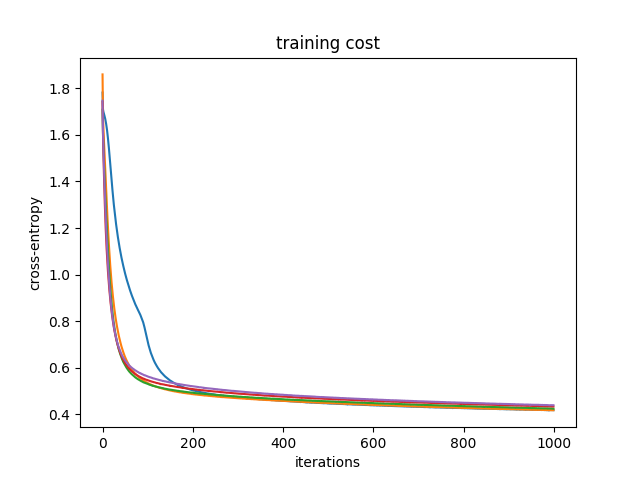
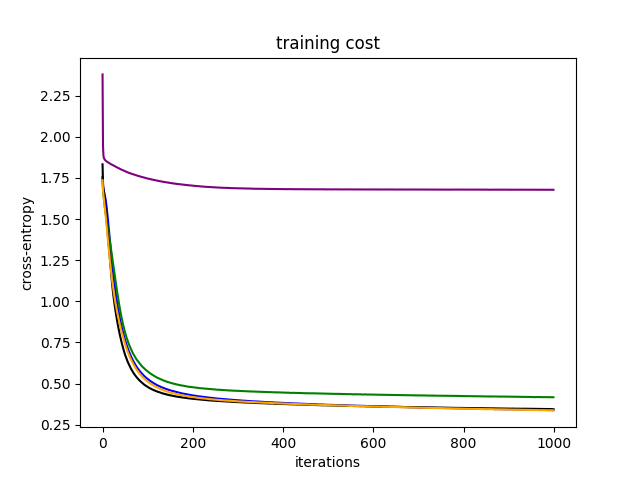
commit last changes for the day

diff --git a/Proj1/Project_1a/question_4.py b/Proj1/Project_1a/question_4.py
@@ -3,6 +3,7 @@ import theano
 import theano.tensor as T
 import matplotlib.pyplot as plt
 import time
+import math
 
 def init_bias(n = 1):
     return(theano.shared(np.zeros(n), theano.config.floatX))
@@ -38,20 +39,21 @@ def shuffle_data (samples, labels):
     samples, labels = samples[idx], labels[idx]
     return samples, labels
 
-colors = {4:"blue", 8:"purple", 16:"green", 32:"black", 64:"orange"}
-decay = 1e-6
+
+#decay = 1e-6
 learning_rate = 0.01
 epochs = 1000
 
+colors = {0:"blue", 1e-3:"purple", 1e-6:"green", 1e-9:"black", 1e-12:"orange"}
 #Was 32
 #batch_size = 32
 
 batch_size = 16
+neurons = 5
 
-hidden_layer_options = [5, 10, 15, 20, 25]
+possible_decay_parameters = [0, math.pow(10, -3), math.pow(10, -6), math.pow(10, -9), math.pow(10, -12)]
 
-
-for neurons in hidden_layer_options:
+for decay in possible_decay_parameters:
 
 
     # theano expressions
@@ -147,11 +149,11 @@ for neurons in hidden_layer_options:
         test_accuracy = np.append(test_accuracy, np.mean(np.argmax(testY, axis=1) == predict(testX)))
 
     plt.figure("cost")
-    plt.plot(range(epochs), train_cost, color=colors[batch_size], label="test")
+    plt.plot(range(epochs), train_cost, color=colors[decay], label="test")
     plt.figure("accuracy")
-    plt.plot(range(epochs), test_accuracy, color=colors[batch_size])
+    plt.plot(range(epochs), test_accuracy, color=colors[decay])
     plt.figure("time")
-    plt.plot(range(epochs), time_list, color=colors[batch_size])
+    plt.plot(range(epochs), time_list, color=colors[decay])
 
 
 
